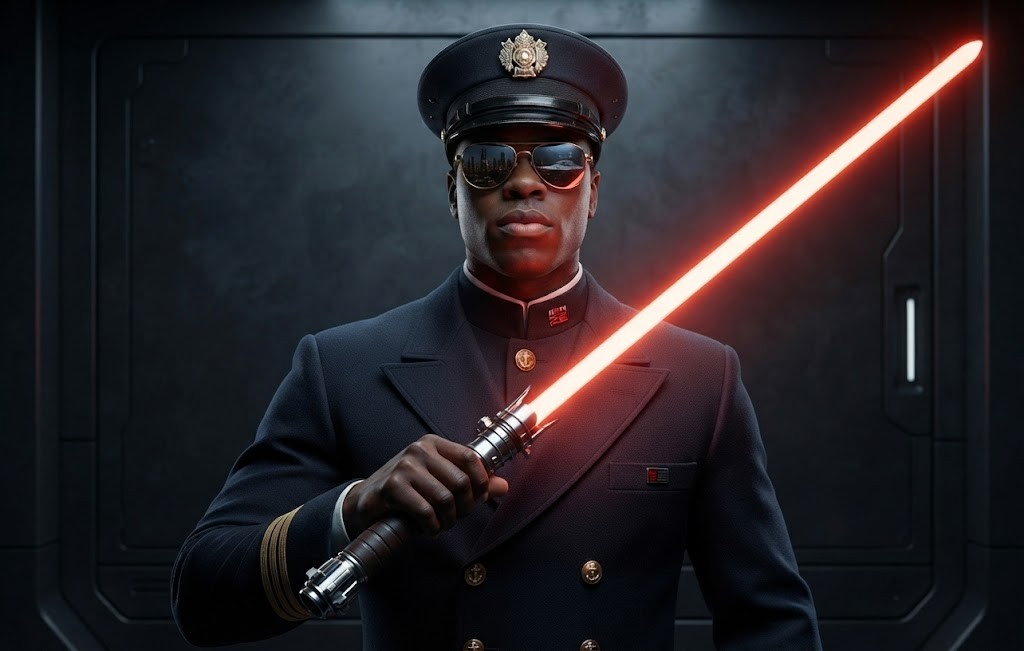
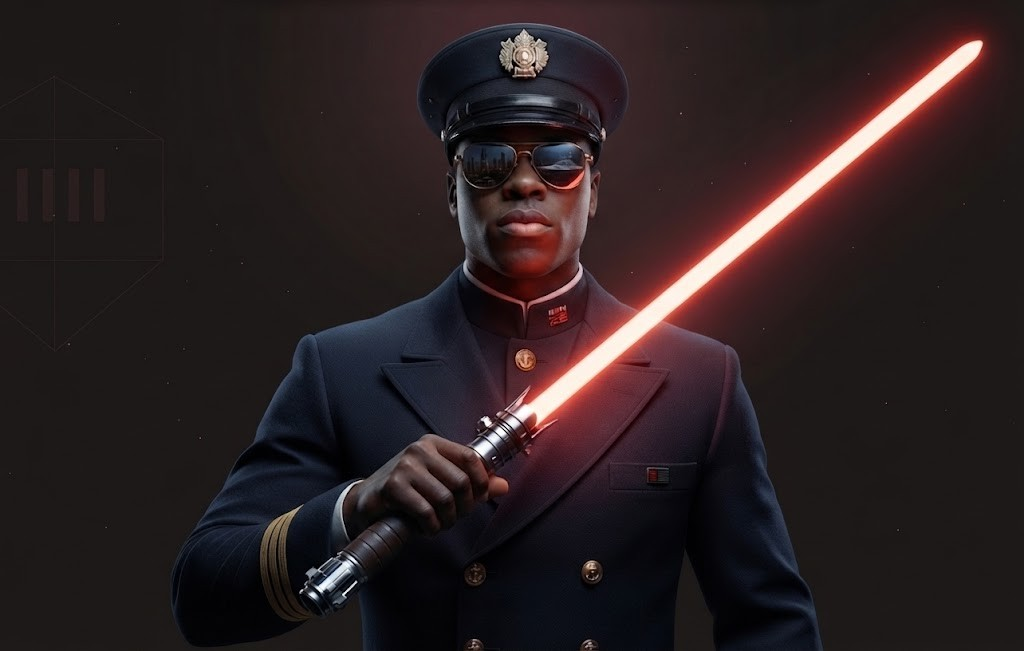
Revert hero card to portrait style, use theme-matched background image
New image has the background recolored to match our ruby/charcoal
palette plus a subtle starfield and geometric watermark, echoing the
site's own effects. Reverted the card to the previous 4:5 portrait
(max-w-sm) rather than the wider 3:2 frame from last time — a plain
centered object-cover crop keeps the face, cap, and hilt fully in
frame plus most of the blade sweep, so no custom object-position was
needed.

diff --git a/frontend/app/components/sections/HeroSection.vue b/frontend/app/components/sections/HeroSection.vue
@@ -102,8 +102,8 @@ onMounted(() => {
           </div>
         </div>
 
-        <div data-reveal-item class="mx-auto w-full max-w-md" style="perspective: 800px">
-          <div ref="cardRef" class="relative aspect-3/2 overflow-hidden rounded-3xl border border-default bg-elevated/50 backdrop-blur-sm">
+        <div data-reveal-item class="mx-auto w-full max-w-sm" style="perspective: 800px">
+          <div ref="cardRef" class="relative aspect-4/5 overflow-hidden rounded-3xl border border-default bg-elevated/50 backdrop-blur-sm">
             <img
               src="/avatar-hero.jpg"
               alt="Ken Nze"
